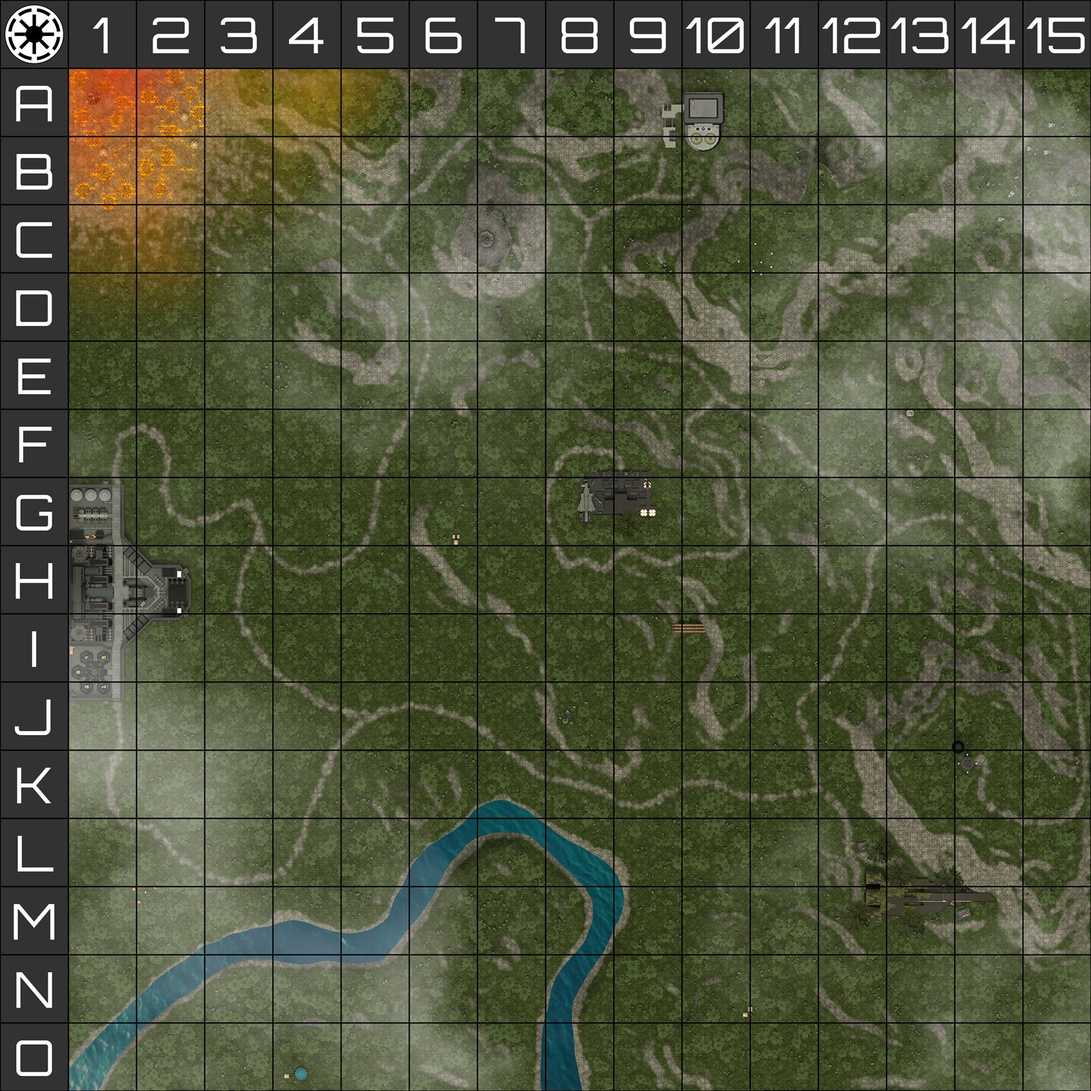
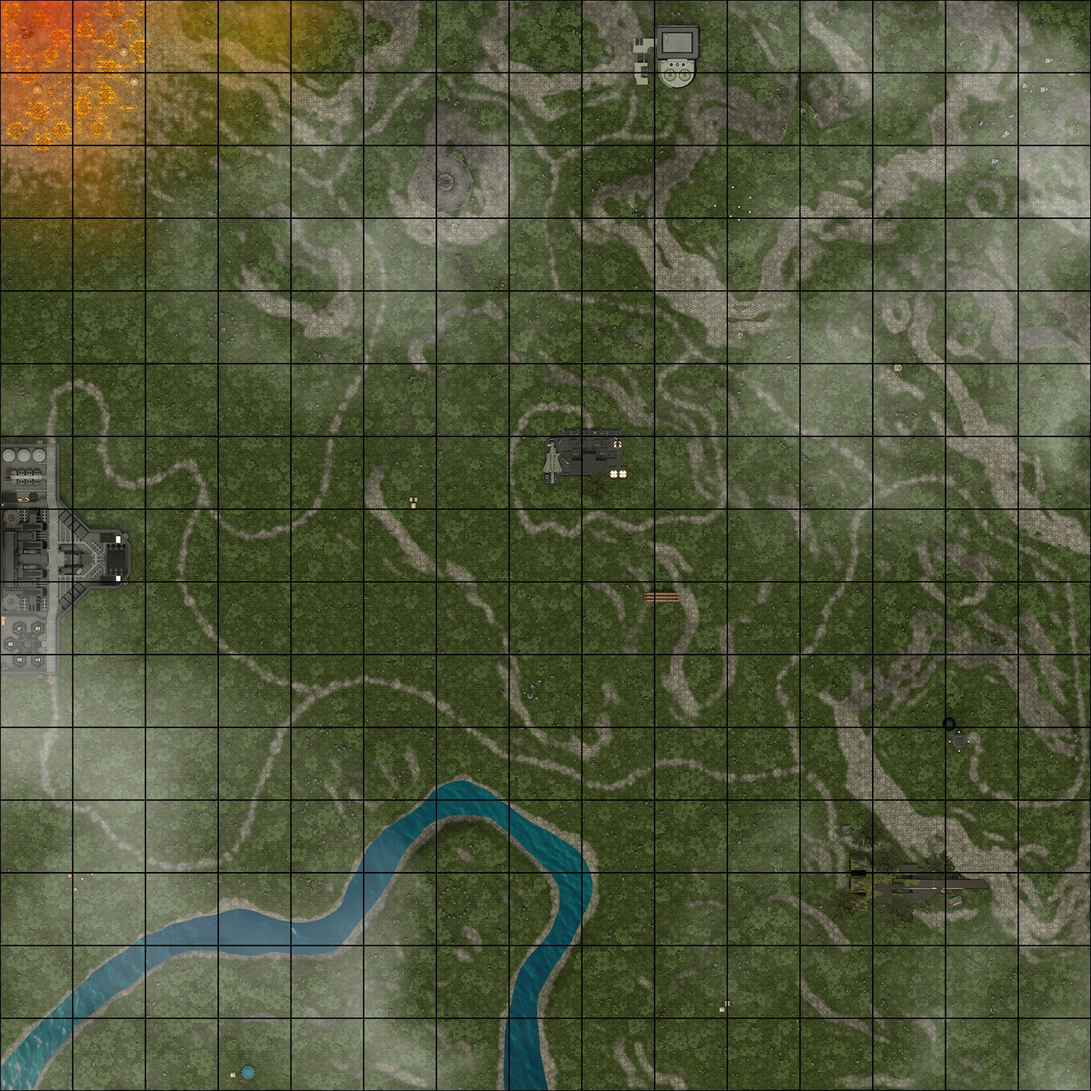
Crop baked-in header band out of МЦБ map image, recalibrate all points
map3.png had an un-cropped 1/16-wide header strip (emblem, column
numbers, row letters) baked in along the top and left edges, unlike
every other map image in the project. The app's own grid overlay
assumed the full image was pure 15x15 terrain, so the overlay grid
drifted from the actual visible terrain grid by up to a full cell
near the far edges of the map.

Cropped the header out (207px of 3312px, confirmed via pixel scan)
and re-encoded as a clean 1600x1600 JPEG. Recalculated every existing
worldCalib point's x/y via v' = (16v-1)/15 to match the new image.
One point (northwest) fell inside the old header band itself, not on
real terrain, and had to be dropped pending a fresh measurement.

Claude-Session: https://claude.ai/code/session_01M8YB776kRZV3NZtg5SbW6N

diff --git a/index.html b/index.html
@@ -398,22 +398,29 @@
               // { row: 'O', col: 1,  corner: 'bl', wx: -16127.879883, wy: -16219.968750 },
               // { row: 'A', col: 15, corner: 'tr', wx: 16122.243164,  wy: 16020.729492 },
               points: [
+                  // Координаты x/y пересчитаны 2026-09-08 под обрезанную картинку (см. ниже:
+                  // map3.jpg обрезан, убрана вшитая в оригинал служебная полоса-«шапка» с
+                  // эмблемой/цифрами/буквами шириной 1/16 картинки сверху и слева). Формула
+                  // пересчёта старой x/y (под неполную картинку) в новую: v' = (16*v - 1) / 15.
                   // онлайн-калибровка через drag+«Откалибровать по точке», сверено у базы, 2026-09-06:
-                  { x: 0.08642,  y: 0.61600,  wx: -15461.859375, wy: -2940.364990 },
-                  { x: 0.07034,  y: 0.61313,  wx: -15436.808594, wy: -2975.081055 },
-                  { x: 0.08629,  y: 0.53523,  wx: -14819.037109, wy: -403.608185 },
-                  { x: 0.10927,  y: 0.55404,  wx: -14054.929688, wy: -1023.626709 },
-                  { x: 0.0791,   y: 0.43093,  wx: -15062.901367, wy: 3060.505371 },
-                  { x: 0.08298,  y: 0.61539,  wx: -14991.987305, wy: -3053.016357 },
+                  { x: 0.02551,  y: 0.59040,  wx: -15461.859375, wy: -2940.364990 },
+                  { x: 0.00836,  y: 0.58734,  wx: -15436.808594, wy: -2975.081055 },
+                  { x: 0.02538,  y: 0.50425,  wx: -14819.037109, wy: -403.608185 },
+                  { x: 0.04989,  y: 0.52431,  wx: -14054.929688, wy: -1023.626709 },
+                  { x: 0.01771,  y: 0.39299,  wx: -15062.901367, wy: 3060.505371 },
+                  { x: 0.02185,  y: 0.58975,  wx: -14991.987305, wy: -3053.016357 },
                   // точки вдали от базы (одно и то же место, повторный замер), 2026-09-08:
-                  { x: 0.70716,  y: 0.61813,  wx: 11137.529297,  wy: -4225.649414 },
-                  { x: 0.70823,  y: 0.61911,  wx: 11182.215820,  wy: -4260.047852 },
-                  { x: 0.74189,  y: 0.66509,  wx: 12532.019531,  wy: -5832.390625 },
-                  { x: 0.06023,  y: 0.06403,  wx: -15302.863281, wy: 15156.692383 },
-                  { x: 0.13395,  y: 0.09583,  wx: -12243.002930, wy: 13978.664062 },
-                  { x: 0.51093,  y: 0.07461,  wx: 3680.416748,   wy: 13998.039062 },
-                  { x: 0.52067,  y: 0.07408,  wx: 4091.648682,   wy: 13997.896484 },
-                  { x: 0.48465,  y: 0.43836,  wx: 2027.900024,   wy: 2085.299561 },
+                  { x: 0.68764,  y: 0.59267,  wx: 11137.529297,  wy: -4225.649414 },
+                  { x: 0.68878,  y: 0.59372,  wx: 11182.215820,  wy: -4260.047852 },
+                  { x: 0.72468,  y: 0.64276,  wx: 12532.019531,  wy: -5832.390625 },
+                  // северо-западная точка (была x:0.06023,y:0.06403 на необрезанной картинке)
+                  // выброшена: она физически попадала на вшитую полосу-«шапку», а не на
+                  // территорию — после обрезки картинки это невалидная позиция, нужен новый замер.
+                  { x: 0.07621,  y: 0.03555,  wx: -12243.002930, wy: 13978.664062 },
+                  { x: 0.47833,  y: 0.01292,  wx: 3680.416748,   wy: 13998.039062 },
+                  { x: 0.48871,  y: 0.01235,  wx: 4091.648682,   wy: 13997.896484 },
+                  { x: 0.45029,  y: 0.40092,  wx: 2027.900024,   wy: 2085.299561 },
+                  { x: 0.64128,  y: 0.78521,  wx: 9036.029297,   wy: -10082.403320 },
               ],
           } },
         { id: 'mcb-archive', name: 'МЦБ-17/9/3-18 (архив, старая карта)', file: 'field-backup-2026-09-06.jpg', cols: 15, rows: 15, rowsFromTop: true, ownLabels: true, cellSide: 132, phase: 2,
